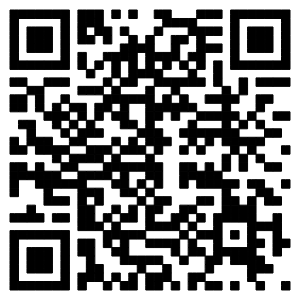
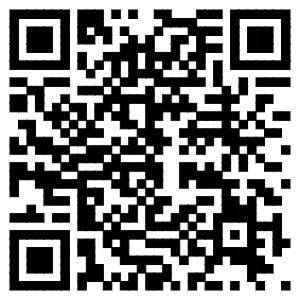
LZH@2016/09/04 update weixin menu to add QR Scan function for factory test

diff --git a/l4oamtools/testcase_wxemc.php b/l4oamtools/testcase_wxemc.php
@@ -13,26 +13,83 @@ include_once "../l1comvm/vmlayer.php";
 if (TC_EMCWX == true){
 //EMCWX测试开始
 
-    //服务号菜单Click事件
-    echo " [TC EMCWX: WEIXIN CLICK_COMPANY START]\n";
-    $GLOBALS["HTTP_RAW_POST_DATA"] = "<xml><ToUserName><![CDATA[gh_70c714952b02]]></ToUserName><FromUserName><![CDATA[oS0Chv3Uum1TZqHaCEb06AoBfCvY]]></FromUserName><CreateTime>1470315946</CreateTime><MsgType><![CDATA[event]]></MsgType><Event><![CDATA[CLICK]]></Event><EventKey><![CDATA[CLICK_COMPANY]]></EventKey></xml>";
+    //微信device_event，bind
+    echo " [TC EMCWX: WEIXIN “bind” EVENT START]\n";
+    $GLOBALS["HTTP_RAW_POST_DATA"] = "<xml><ToUserName><![CDATA[gh_70c714952b02]]></ToUserName>
+                                        <FromUserName><![CDATA[oS0Chv3Uum1TZqHaCEb06AoBfCvY]]></FromUserName>
+                                        <CreateTime>1472887993</CreateTime>
+                                        <MsgType><![CDATA[device_event]]></MsgType>
+                                        <Event><![CDATA[bind]]></Event>
+                                        <DeviceType><![CDATA[gh_70c714952b02]]></DeviceType>
+                                        <DeviceID><![CDATA[gh_70c714952b02_8cd47e1f6141e49a4e45f4b807cf41fe]]></DeviceID>
+                                        <Content><![CDATA[]]></Content>
+                                        <SessionID>0</SessionID>
+                                        <OpenID><![CDATA[oS0Chv3Uum1TZqHaCEb06AoBfCvY]]></OpenID>
+                                     </xml>";
     require("../l1mainentry/cloud_callback_wechat.php");
-    echo " \n[TC EMCWX: WEIXIN CLICK_COMPANY END]\n";
+    echo " \n[TC EMCWX: WEIXIN “bind” EVENT END]\n";
 
+    //微信二维码扫码事件
+    echo " [TC EMCWX: WEIXIN “scancode_push” EVENT START]\n";
+    $GLOBALS["HTTP_RAW_POST_DATA"] = "<xml><ToUserName><![CDATA[gh_70c714952b02]]></ToUserName>
+                                        <FromUserName><![CDATA[oS0Chv3Uum1TZqHaCEb06AoBfCvY]]></FromUserName>
+                                        <CreateTime>1472912757</CreateTime>
+                                        <MsgType><![CDATA[event]]></MsgType>
+                                        <Event><![CDATA[scancode_push]]></Event>
+                                        <EventKey><![CDATA[QR_SCAN]]></EventKey>
+                                        <ScanCodeInfo><ScanType><![CDATA[qrcode]]></ScanType>
+                                        <ScanResult><![CDATA[http://we.qq.com/d/AQBLQKG-27gIDCKf03DmiwAXh27qptK_scSJJRAn]]></ScanResult>
+                                        </ScanCodeInfo>
+                                     </xml>";
+    require("../l1mainentry/cloud_callback_wechat.php");
+    echo " \n[TC EMCWX: WEIXIN “scancode_push” EVENT END]\n";
+
+    //微信device_text消息
     echo " [TC EMCWX: EMC DEVICE_TEXT START]\n";
     //$content = pack("H*", "FE01001C71212372010002206500403020101020304050607081800");
     $content = base64_encode(pack("H*", "201000220650040302010102030405060708"));
-    $GLOBALS["HTTP_RAW_POST_DATA"] = "<xml><ToUserName><![CDATA[IHU]]></ToUserName><FromUserName><![CDATA[oS0Chv3Uum1TZqHaCEb06AoBfCvY]]></FromUserName><DeviceID><![CDATA[gh_70c714952b02_8cd47e1f6141e49a4e45f4b807cf41fe]]></DeviceID>><CreateTime>1472739347</CreateTime><MsgType><![CDATA[device_text]]></MsgType><Content><![CDATA[" . $content . "]]></Content><FuncFlag>0</FuncFlag></xml>";
+    $GLOBALS["HTTP_RAW_POST_DATA"] = "<xml><ToUserName><![CDATA[IHU]]></ToUserName>
+                                        <FromUserName><![CDATA[oS0Chv3Uum1TZqHaCEb06AoBfCvY]]></FromUserName>
+                                        <DeviceID><![CDATA[gh_70c714952b02_8cd47e1f6141e49a4e45f4b807cf41fe]]></DeviceID>
+                                        <CreateTime>1472739347</CreateTime>
+                                        <MsgType><![CDATA[device_text]]></MsgType>
+                                        <Content><![CDATA[" . $content . "]]></Content>
+                                        <FuncFlag>0</FuncFlag>
+                                      </xml>";
     require("../l1mainentry/cloud_callback_wechat.php");
     echo " \n[TC EMCWX: EMC DEVICE_TEXT END]\n";
 
-    echo " [TC EMCWX: EMC DEVICE_EVENT START]\n";
-    $GLOBALS["HTTP_RAW_POST_DATA"] = "<xml><ToUserName><![CDATA[AQ_HCU]]></ToUserName><FromUserName><![CDATA[HCU_SH_0302]]></FromUserName><CreateTime>1460039152</CreateTime><MsgType><![CDATA[device_event]]></MsgType><Content><![CDATA[201881050201124945000000004E000000000000000057066DF0]]></Content><FuncFlag>0</FuncFlag></xml>";
+    //服务号菜单Click事件
+    echo " [TC EMCWX: WEIXIN CLICK_COMPANY START]\n";
+    $GLOBALS["HTTP_RAW_POST_DATA"] = "<xml><ToUserName><![CDATA[gh_70c714952b02]]></ToUserName>
+                                        <FromUserName><![CDATA[oS0Chv3Uum1TZqHaCEb06AoBfCvY]]></FromUserName>
+                                        <CreateTime>1470315946</CreateTime>
+                                        <MsgType><![CDATA[event]]></MsgType>
+                                        <Event><![CDATA[CLICK]]></Event>
+                                        <EventKey><![CDATA[CLICK_COMPANY]]></EventKey>
+                                     </xml>";
     require("../l1mainentry/cloud_callback_wechat.php");
-    echo " \n[TC EMCWX: EMC DEVICE_EVENT END]\n";
+    echo " \n[TC EMCWX: WEIXIN CLICK_COMPANY END]\n";
+    //服务号菜单Click事件
+    echo " [TC EMCWX: WEIXIN CLICK_BIND_INQ START]\n";
+    $GLOBALS["HTTP_RAW_POST_DATA"] = "<xml><ToUserName><![CDATA[gh_70c714952b02]]></ToUserName>
+                                        <FromUserName><![CDATA[oS0Chv3Uum1TZqHaCEb06AoBfCvY]]></FromUserName>
+                                        <CreateTime>1472912904</CreateTime>
+                                        <MsgType><![CDATA[event]]></MsgType>
+                                        <Event><![CDATA[CLICK]]></Event>
+                                        <EventKey><![CDATA[CLICK_BIND_INQ]]></EventKey>
+                                      </xml>";
+    require("../l1mainentry/cloud_callback_wechat.php");
+    echo " \n[TC EMCWX: WEIXIN CLICK_BIND_INQ END]\n";
 
     echo " [TC EMCWX: WEIXIN CLICK_EMC_READ START]\n";
-    $GLOBALS["HTTP_RAW_POST_DATA"] = "<xml><ToUserName><![CDATA[gh_70c714952b02]]></ToUserName><FromUserName><![CDATA[oS0Chv-avCH7W4ubqOQAFXojYODY]]></FromUserName><CreateTime>1470315946</CreateTime><MsgType><![CDATA[event]]></MsgType><Event><![CDATA[CLICK]]></Event><EventKey><![CDATA[CLICK_EMC_READ]]></EventKey></xml>";
+    $GLOBALS["HTTP_RAW_POST_DATA"] = "<xml><ToUserName><![CDATA[gh_70c714952b02]]></ToUserName>
+                                        <FromUserName><![CDATA[oS0Chv-avCH7W4ubqOQAFXojYODY]]></FromUserName>
+                                        <CreateTime>1470315946</CreateTime>
+                                        <MsgType><![CDATA[event]]></MsgType>
+                                        <Event><![CDATA[CLICK]]></Event>
+                                        <EventKey><![CDATA[CLICK_EMC_READ]]></EventKey>
+                                      </xml>";
     require("../l1mainentry/cloud_callback_wechat.php");
     echo " \n[TC EMCWX: WEIXIN CLICK_EMC_READ END]\n";
 

diff --git a/l4oamtools/tool.create.menu.php b/l4oamtools/tool.create.menu.php
@@ -45,17 +45,18 @@ if (MFUN_WX_APPID == "wx1183be5c8f6a24b4") //如果是测试号
     $self_create_menu =
     '{"button":[
                 {"name":"调测工具",
-                    "sub_button":[{"type":"click","name":"当前辐射","key":"CLICK_EMC_READ"},
-                                  {"type":"click","name":"绑定","key":"CLICK_BIND"},
-                                  {"type":"click","name":"解绑","key":"CLICK_UNBIND"},
-                                  {"type":"click","name":"查询","key":"CLICK_BIND_INQ"},
+                    "sub_button":[
+                                  {"type":"click","name":"强制绑定","key":"CLICK_BIND"},
+                                  {"type":"click","name":"版本信息","key":"CLICK_VERSION"},
+                                  {"type":"click","name":"用户信息","key":"CLICK_USER"},
                                   {"type":"click","name":"Trace开","key":"CLICK_TRACE_ON"},
                                   {"type":"click","name":"Trace关","key":"CLICK_TRACE_OFF"}]
                 },
                 {"name":"生产工具",
-                     "sub_button":[{"type":"scancode_waitmsg","name":"扫码","key":"QR_SCAN"},
-                                   {"type":"click","name":"版本信息","key":"CLICK_VERSION"},
-                                   {"type":"click","name":"用户信息","key":"CLICK_USER"}]
+                     "sub_button":[{"type":"scancode_push","name":"扫码绑定","key":"QR_SCAN"},
+                                   {"type":"click","name":"解绑自己","key":"CLICK_UNBIND"},
+                                   {"type":"click","name":"绑定查询","key":"CLICK_BIND_INQ"},
+                                   {"type":"click","name":"辐射读取","key":"CLICK_EMC_READ"}]
                 }
          ]
     }';

diff --git a/l2sdk/task_l2sdk_wechat.class.php b/l2sdk/task_l2sdk_wechat.class.php
@@ -4376,6 +4376,9 @@ class classTaskL2sdkWechat
             case "unsubscribe":
                 $content = "取消关注";
                 break;
+            case "scancode_push":
+                $content = "扫码类型 ". $postObj->ScanCodeInfo->ScanType." \n扫码结果：". $postObj->ScanCodeInfo->ScanResult;
+                break;
             case "SCAN":
                 $content = "扫描场景 ".$postObj->EventKey;
                 break;
@@ -4565,10 +4568,6 @@ class classTaskL2sdkWechat
 					case "link":
 						$result = $this->wechat_receiveLink($postObj);
 						break;
-                    case "scancode_waitmsg":
-                        $result = "扫码类型 ". $postObj->ScanCodeInfo->ScanType." \n扫码结果：". $postObj->ScanCodeInfo->ScanResult;
-                        break;
-
 					case "device_text":  //智能硬件设备text消息，都转到IOT相关的CLASS中
 						$project = MFUN_PRJ_IHU_EMCWX;
 						//$wxDevObj = new classTaskL2sdkIotWx($this->appid, $this->appsecret);

diff --git a/l1comvm/sysversion.php b/l1comvm/sysversion.php
@@ -8,7 +8,7 @@
 
 //SW version control, for internal usage
 define ("MFUN_CURRENT_SW_RELEASE", "02");  //R01 = 0x01 (MFUN.SW.R01.456)
-define ("MFUN_CURRENT_SW_DELIVERY","D40"); //001 = 0x01 (XQ.HCU.SW.R01.456), starting from 100 as 2015/11/02
+define ("MFUN_CURRENT_SW_DELIVERY","D41"); //001 = 0x01 (XQ.HCU.SW.R01.456), starting from 100 as 2015/11/02
 define("MFUN_CURRENT_VERSION", "R" . MFUN_CURRENT_SW_RELEASE . "." . MFUN_CURRENT_SW_DELIVERY);  //当前SAE应用版本号
 
 /*
@@ -60,6 +60,7 @@ define("MFUN_CURRENT_VERSION", "R" . MFUN_CURRENT_SW_RELEASE . "." . MFUN_CURREN
 //= LZH, 2016 Aug.11, CURRENT_SW_DELIVERY R02.D38
 //= LZH, 2016 Aug.23, CURRENT_SW_DELIVERY R02.D39
 //= LZH, 2016 Aug.23, CURRENT_SW_DELIVERY R02.D40
+//= LZH, 2016 Sep.04, CURRENT_SW_DELIVERY R02.D41
 
  */
 
